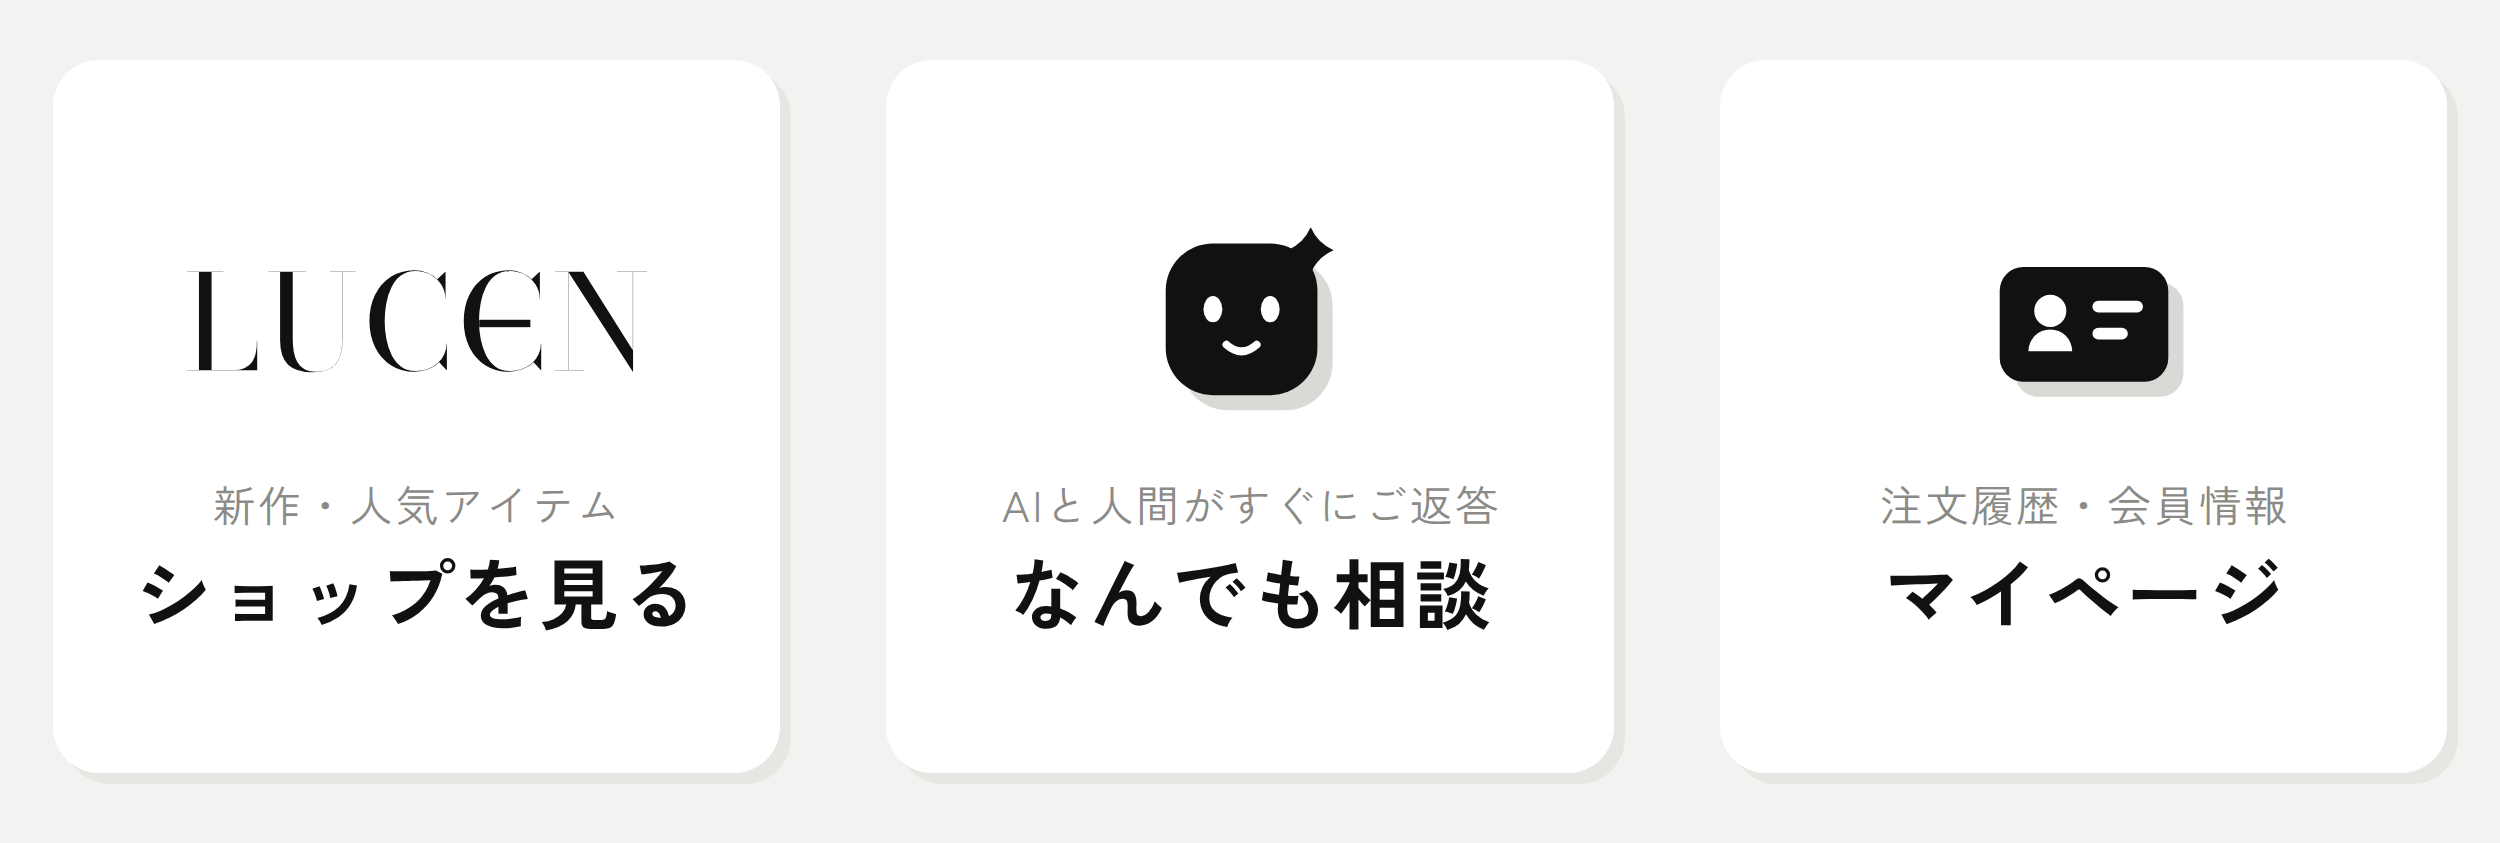
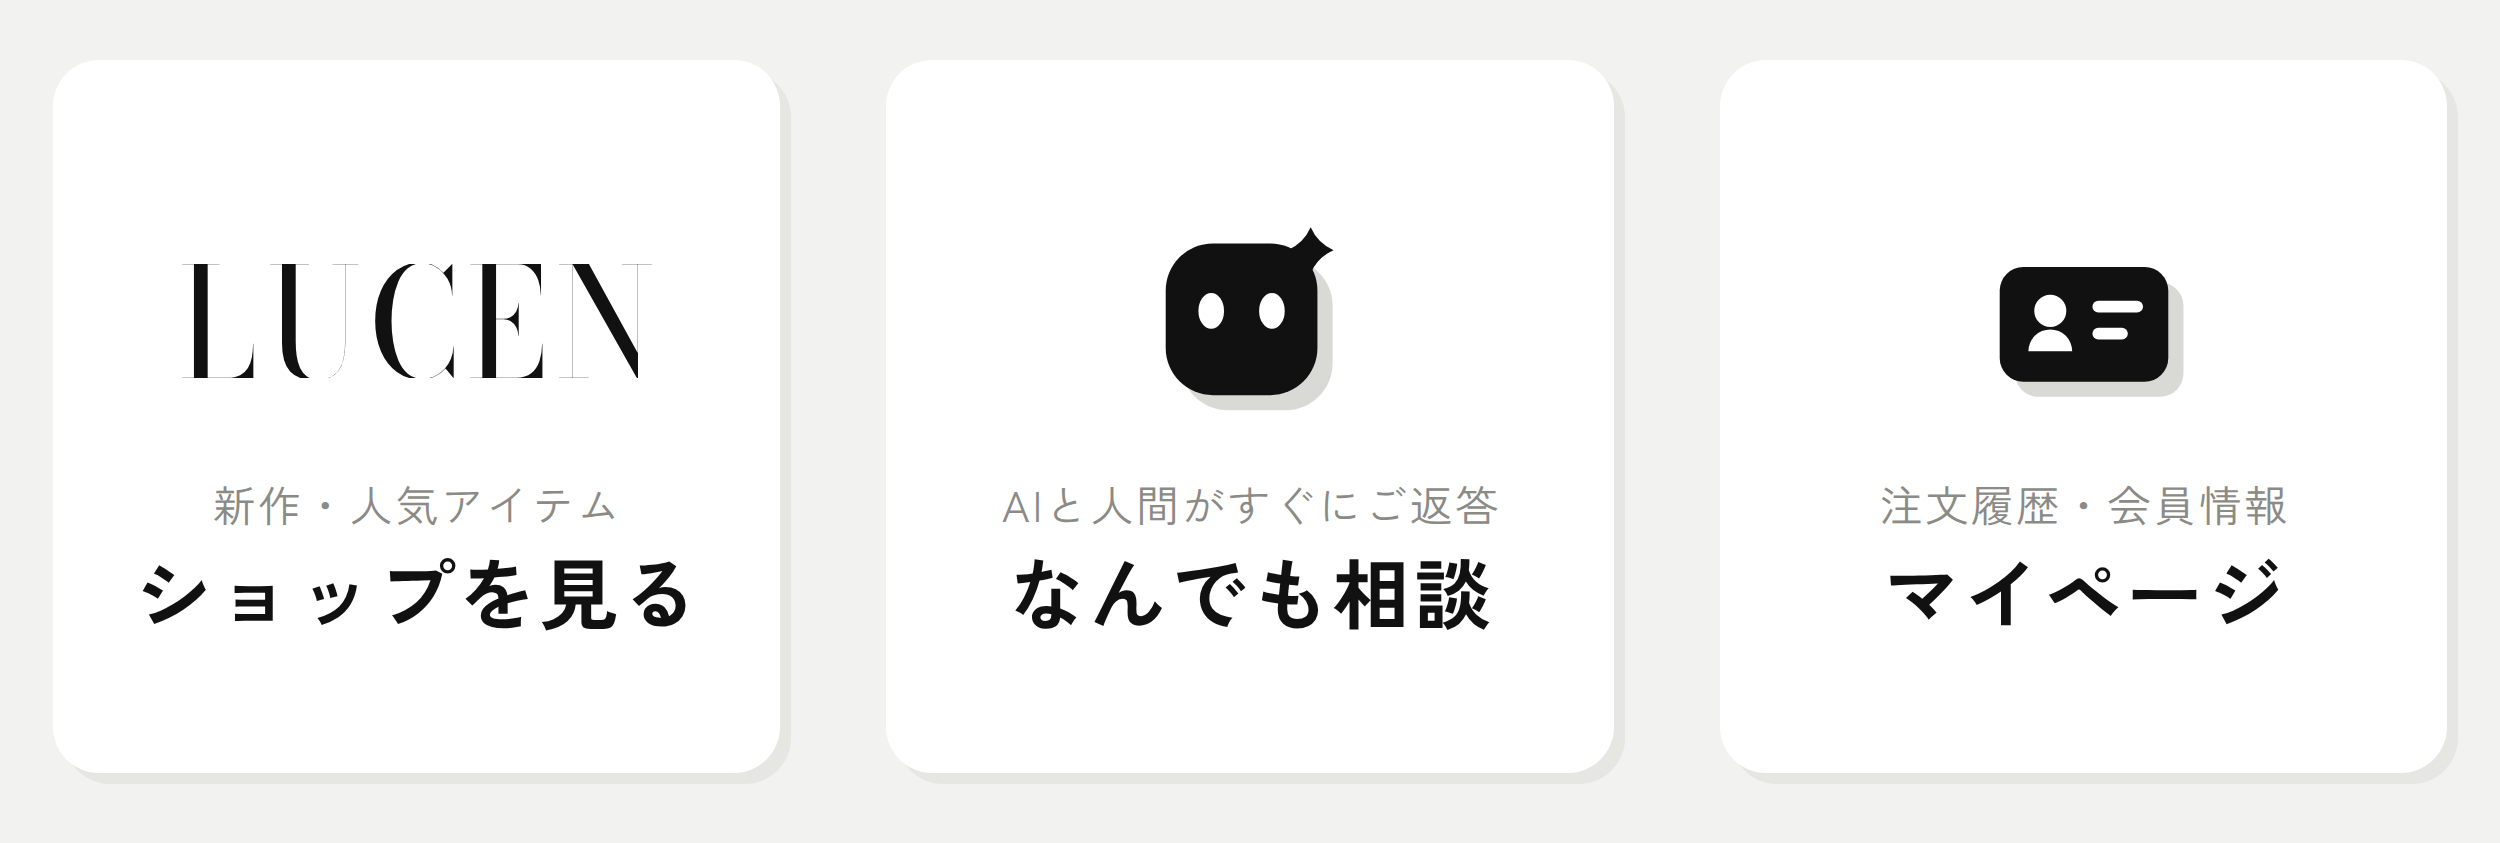
Finalize A2: asymmetric AI character, eyes only, closer logotype
- 中央のAIキャラクターを左右非対称のシルエットに作り替え
  角の丸みを一つずつ変え、輪郭もわずかに傾けて整い過ぎない形にした
  角丸ポリゴンのヘルパを入れたので、頂点と丸みの数値だけで調整できる
- 口を廃止し、目だけの表情に（星・まるのバリエーションも揃えた）
- ロゴの再現精度を改善。支給画像から字面の縦横比を実測し、
  字幅と字間をそれに合わせて組み直した（丸いEではなく通常のEを使用）
- A2案を本番として README を整理

Claude-Session: https://claude.ai/code/session_01LwpQXKyVgrqKc85BqGukoV

diff --git a/design/lucen-richmenu/src/icons.js b/design/lucen-richmenu/src/icons.js
@@ -14,14 +14,39 @@
   var svg = function (inner) {
     return '<svg viewBox="0 0 140 140" width="100%" height="100%">' + inner + '</svg>';
   };
-  /* 四角・まるの中に入れる顔（中心 68,74 のボディに合わせてある） */
+  /* 四角・まるの中に入れる顔。口は置かず、目だけで表情をつくる */
   var FACE =
     '<g class="ic-detail">' +
-      '<ellipse cx="48" cy="63" rx="5.6" ry="7.8"/>' +
-      '<ellipse cx="82" cy="63" rx="5.6" ry="7.8"/>' +
-      '<path d="M56,84 Q65,92 74,84" fill="none" stroke="currentColor" stroke-width="4.6" stroke-linecap="round"/>' +
+      '<ellipse cx="47" cy="64" rx="7.6" ry="10.6"/>' +
+      '<ellipse cx="83" cy="64" rx="7.6" ry="10.6"/>' +
     '</g>';
   var face = function (v) { return '<g transform="translate(64,78) scale(' + v + ')"><path d="' + SPARK + '"/></g>'; };
+
+
+  /* 頂点ごとに丸みの大きさを変えられる多角形。
+     すべての角を同じ半径で丸めると整い過ぎるので、
+     アイコンのシルエットはこれで少し歪ませている。 */
+  function roundedPoly(pts, radii) {
+    var n = pts.length, d = [];
+    for (var i = 0; i < n; i++) {
+      var cur = pts[i], prev = pts[(i + n - 1) % n], next = pts[(i + 1) % n];
+      var v1 = [prev[0] - cur[0], prev[1] - cur[1]];
+      var v2 = [next[0] - cur[0], next[1] - cur[1]];
+      var l1 = Math.hypot(v1[0], v1[1]), l2 = Math.hypot(v2[0], v2[1]);
+      var r = Math.min(radii[i], l1 / 2, l2 / 2);
+      var a = [cur[0] + v1[0] / l1 * r, cur[1] + v1[1] / l1 * r];
+      var b = [cur[0] + v2[0] / l2 * r, cur[1] + v2[1] / l2 * r];
+      d.push((i ? 'L' : 'M') + a[0].toFixed(1) + ',' + a[1].toFixed(1) +
+             'Q' + cur[0] + ',' + cur[1] + ' ' + b[0].toFixed(1) + ',' + b[1].toFixed(1));
+    }
+    return d.join('') + 'Z';
+  }
+
+  /* AIキャラクターのボディ（左右非対称／角の丸みもばらばら） */
+  var BODY = roundedPoly(
+    [[16, 30], [102, 18], [114, 106], [28, 118]],
+    [44, 5, 28, 20]
+  );
 
   var ICONS = {
 
@@ -43,9 +68,8 @@
       '<g class="ic-extrude" transform="translate(9,9)">' + face(0.46) + '</g>' +
       '<g class="ic-face">' + face(0.46) + '</g>' +
       '<g class="ic-detail" transform="translate(64,78) scale(0.46)">' +
-        '<ellipse cx="-30" cy="-8" rx="10.5" ry="15"/>' +
-        '<ellipse cx="30"  cy="-8" rx="10.5" ry="15"/>' +
-        '<path d="M-17,32 Q0,47 17,32" fill="none" stroke="currentColor" stroke-width="7.5" stroke-linecap="round"/>' +
+        '<ellipse cx="-30" cy="2" rx="11.5" ry="16.5"/>' +
+        '<ellipse cx="30"  cy="2" rx="11.5" ry="16.5"/>' +
       '</g>' +
       '<g class="ic-face" transform="translate(104,30) scale(0.115)"><path d="' + SPARK + '"/></g>'
     ),
@@ -74,8 +98,8 @@
 
     /* まる */
     charCircle: svg(
-      '<g class="ic-extrude" transform="translate(9,9)"><circle cx="65" cy="69" r="45"/></g>' +
-      '<g class="ic-face"><circle cx="65" cy="69" r="45"/></g>' +
+      '<g class="ic-extrude" transform="translate(9,9)"><circle cx="64" cy="68" r="45"/></g>' +
+      '<g class="ic-face"><circle cx="64" cy="68" r="45"/></g>' +
       FACE +
       '<g class="ic-face" transform="translate(108,26) scale(0.115)"><path d="' + SPARK + '"/></g>'
     ),

diff --git a/design/lucen-richmenu/src/make-logo.py b/design/lucen-richmenu/src/make-logo.py
@@ -1,13 +1,13 @@
 #!/usr/bin/env python3
 """LUCEN ロゴタイプ（ワードマーク）を SVG として書き出す。
 
-支給された正式なロゴデータが手元にないため、いただいたロゴ画像に合わせて
+正式なロゴデータ（AI / SVG）が手元にないため、いただいたロゴ画像に合わせて
 Bodoni Moda（SIL OFL）から近似のアウトラインを起こしている。
-特徴的な丸い E は、C のアウトラインに横棒を足して再現している。
+字面の縦横比が画像と一致するよう、字間を逆算して求めている。
 
     python3 make-logo.py <BodoniModa-var.ttf> ../assets/lucen-logo.svg
 
-正式なロゴの AI / SVG が支給されたら、出力先の SVG を差し替えるだけでよい。
+正式なロゴが支給されたら、出力先の SVG を差し替えるだけでよい。
 """
 import sys
 
@@ -17,14 +17,14 @@ from fontTools.ttLib import TTFont
 from fontTools.varLib import instancer
 
 WORD = "LUCEN"
-TRACKING = 0.045      # 字間（em）
-WGHT, OPSZ = 400, 96  # opsz を大きくすると Didone らしくヘアラインが細くなる
+RATIO = 4.14          # 字面の 幅 ÷ キャップハイト（支給画像から実測）
+CONDENSE = 0.88       # 支給ロゴは Bodoni より字幅が狭いので横に詰める
+WGHT, OPSZ = 445, 96  # 横に詰めた分だけ字面が細るのでウェイトで補正
 
-# 丸い E（C ＋ 横棒）の作り方
-BAR_LEFT   = 0.20   # C の字幅に対する棒の左端
-BAR_RIGHT  = 0.86   # 　　　〃　　　　　　右端
-BAR_MID    = 0.475  # キャップハイトに対する棒の中心高さ
-BAR_WEIGHT = 0.075  # 　　　〃　　　　　　太さ
+# E を丸い形（C ＋ 横棒）で作る場合は True にする
+ROUND_E = False
+BAR_LEFT, BAR_RIGHT = 0.20, 0.86   # C の字幅に対する横棒の左右
+BAR_MID, BAR_WEIGHT = 0.475, 0.075  # キャップハイトに対する横棒の中心高さと太さ
 
 
 def main(src, dst):
@@ -32,44 +32,54 @@ def main(src, dst):
     instancer.instantiateVariableFont(font, {"wght": WGHT, "opsz": OPSZ}, inplace=True)
     glyphs = font.getGlyphSet()
     cmap = font.getBestCmap()
-    upm = font["head"].unitsPerEm
     cap = font["OS/2"].sCapHeight
 
-    parts, x = [], 0.0
-    for ch in WORD:
-        name = cmap[ord("C" if ch == "E" else ch)]   # E は C から起こす
+    names = [cmap[ord("C" if (ch == "E" and ROUND_E) else ch)] for ch in WORD]
+
+    def bounds(name):
+        pen = BoundsPen(glyphs)
+        glyphs[name].draw(pen)
+        return pen.bounds
+
+    # ロゴタイプなので送り幅ではなく「字面どうしの間隔」を一定にして組む。
+    # その間隔は、全体の縦横比が支給画像と揃うように逆算する。
+    inked = [(bounds(n)[2] - bounds(n)[0]) * CONDENSE for n in names]
+    gap = (RATIO * cap - sum(inked)) / (len(names) - 1)
+
+    parts, x = [], -bounds(names[0])[0] * CONDENSE
+    for i, (ch, name) in enumerate(zip(WORD, names)):
         pen = SVGPathPen(glyphs)
         glyphs[name].draw(pen)
-        parts.append(f'<path transform="translate({x:.1f},0)" d="{pen.getCommands()}"/>')
+        parts.append(
+            f'<path transform="translate({x:.1f},0) scale({CONDENSE},1)" d="{pen.getCommands()}"/>'
+        )
 
-        if ch == "E":
-            bounds = BoundsPen(glyphs)
-            glyphs[name].draw(bounds)
-            x0, _, x1, _ = bounds.bounds
+        if ch == "E" and ROUND_E:
+            x0, _, x1, _ = (v * CONDENSE for v in bounds(name))
             w = x1 - x0
             bx, bw = x0 + w * BAR_LEFT, w * (BAR_RIGHT - BAR_LEFT)
             bh = cap * BAR_WEIGHT
-            by = cap * BAR_MID - bh / 2
             parts.append(
-                f'<rect transform="translate({x:.1f},0)" '
-                f'x="{bx:.1f}" y="{by:.1f}" width="{bw:.1f}" height="{bh:.1f}"/>'
+                f'<rect transform="translate({x:.1f},0)" x="{bx:.1f}" '
+                f'y="{cap * BAR_MID - bh / 2:.1f}" width="{bw:.1f}" height="{bh:.1f}"/>'
             )
 
-        x += glyphs[name].width + upm * TRACKING
+        if i + 1 < len(names):
+            # 次の字は「今の字の右端 + 一定の間隔」から字面が始まるように置く
+            x += (bounds(name)[2] + gap / CONDENSE - bounds(names[i + 1])[0]) * CONDENSE
 
-    width = x - upm * TRACKING
-    pad = upm * 0.02
+    width = sum(inked) + gap * (len(names) - 1)
     svg = (
         f'<svg xmlns="http://www.w3.org/2000/svg" '
-        f'viewBox="{-pad:.0f} {-pad:.0f} {width + pad * 2:.0f} {cap + pad * 2:.0f}" '
-        f'width="{(width + pad * 2) / 10:.0f}" height="{(cap + pad * 2) / 10:.0f}">\n'
+        f'viewBox="0 0 {width:.0f} {cap:.0f}" '
+        f'width="{width / 10:.0f}" height="{cap / 10:.0f}">\n'
         f'  <title>LUCEN</title>\n'
         f'  <g fill="#111111" transform="translate(0,{cap:.0f}) scale(1,-1)">\n    '
         + "\n    ".join(parts)
         + "\n  </g>\n</svg>\n"
     )
     open(dst, "w").write(svg)
-    print(f"{dst}  ({width / upm:.2f}em x {cap / upm:.2f}em)")
+    print(f"{dst}  ratio {width / cap:.2f}  gap {gap / cap:.3f}cap")
 
 
 if __name__ == "__main__":
